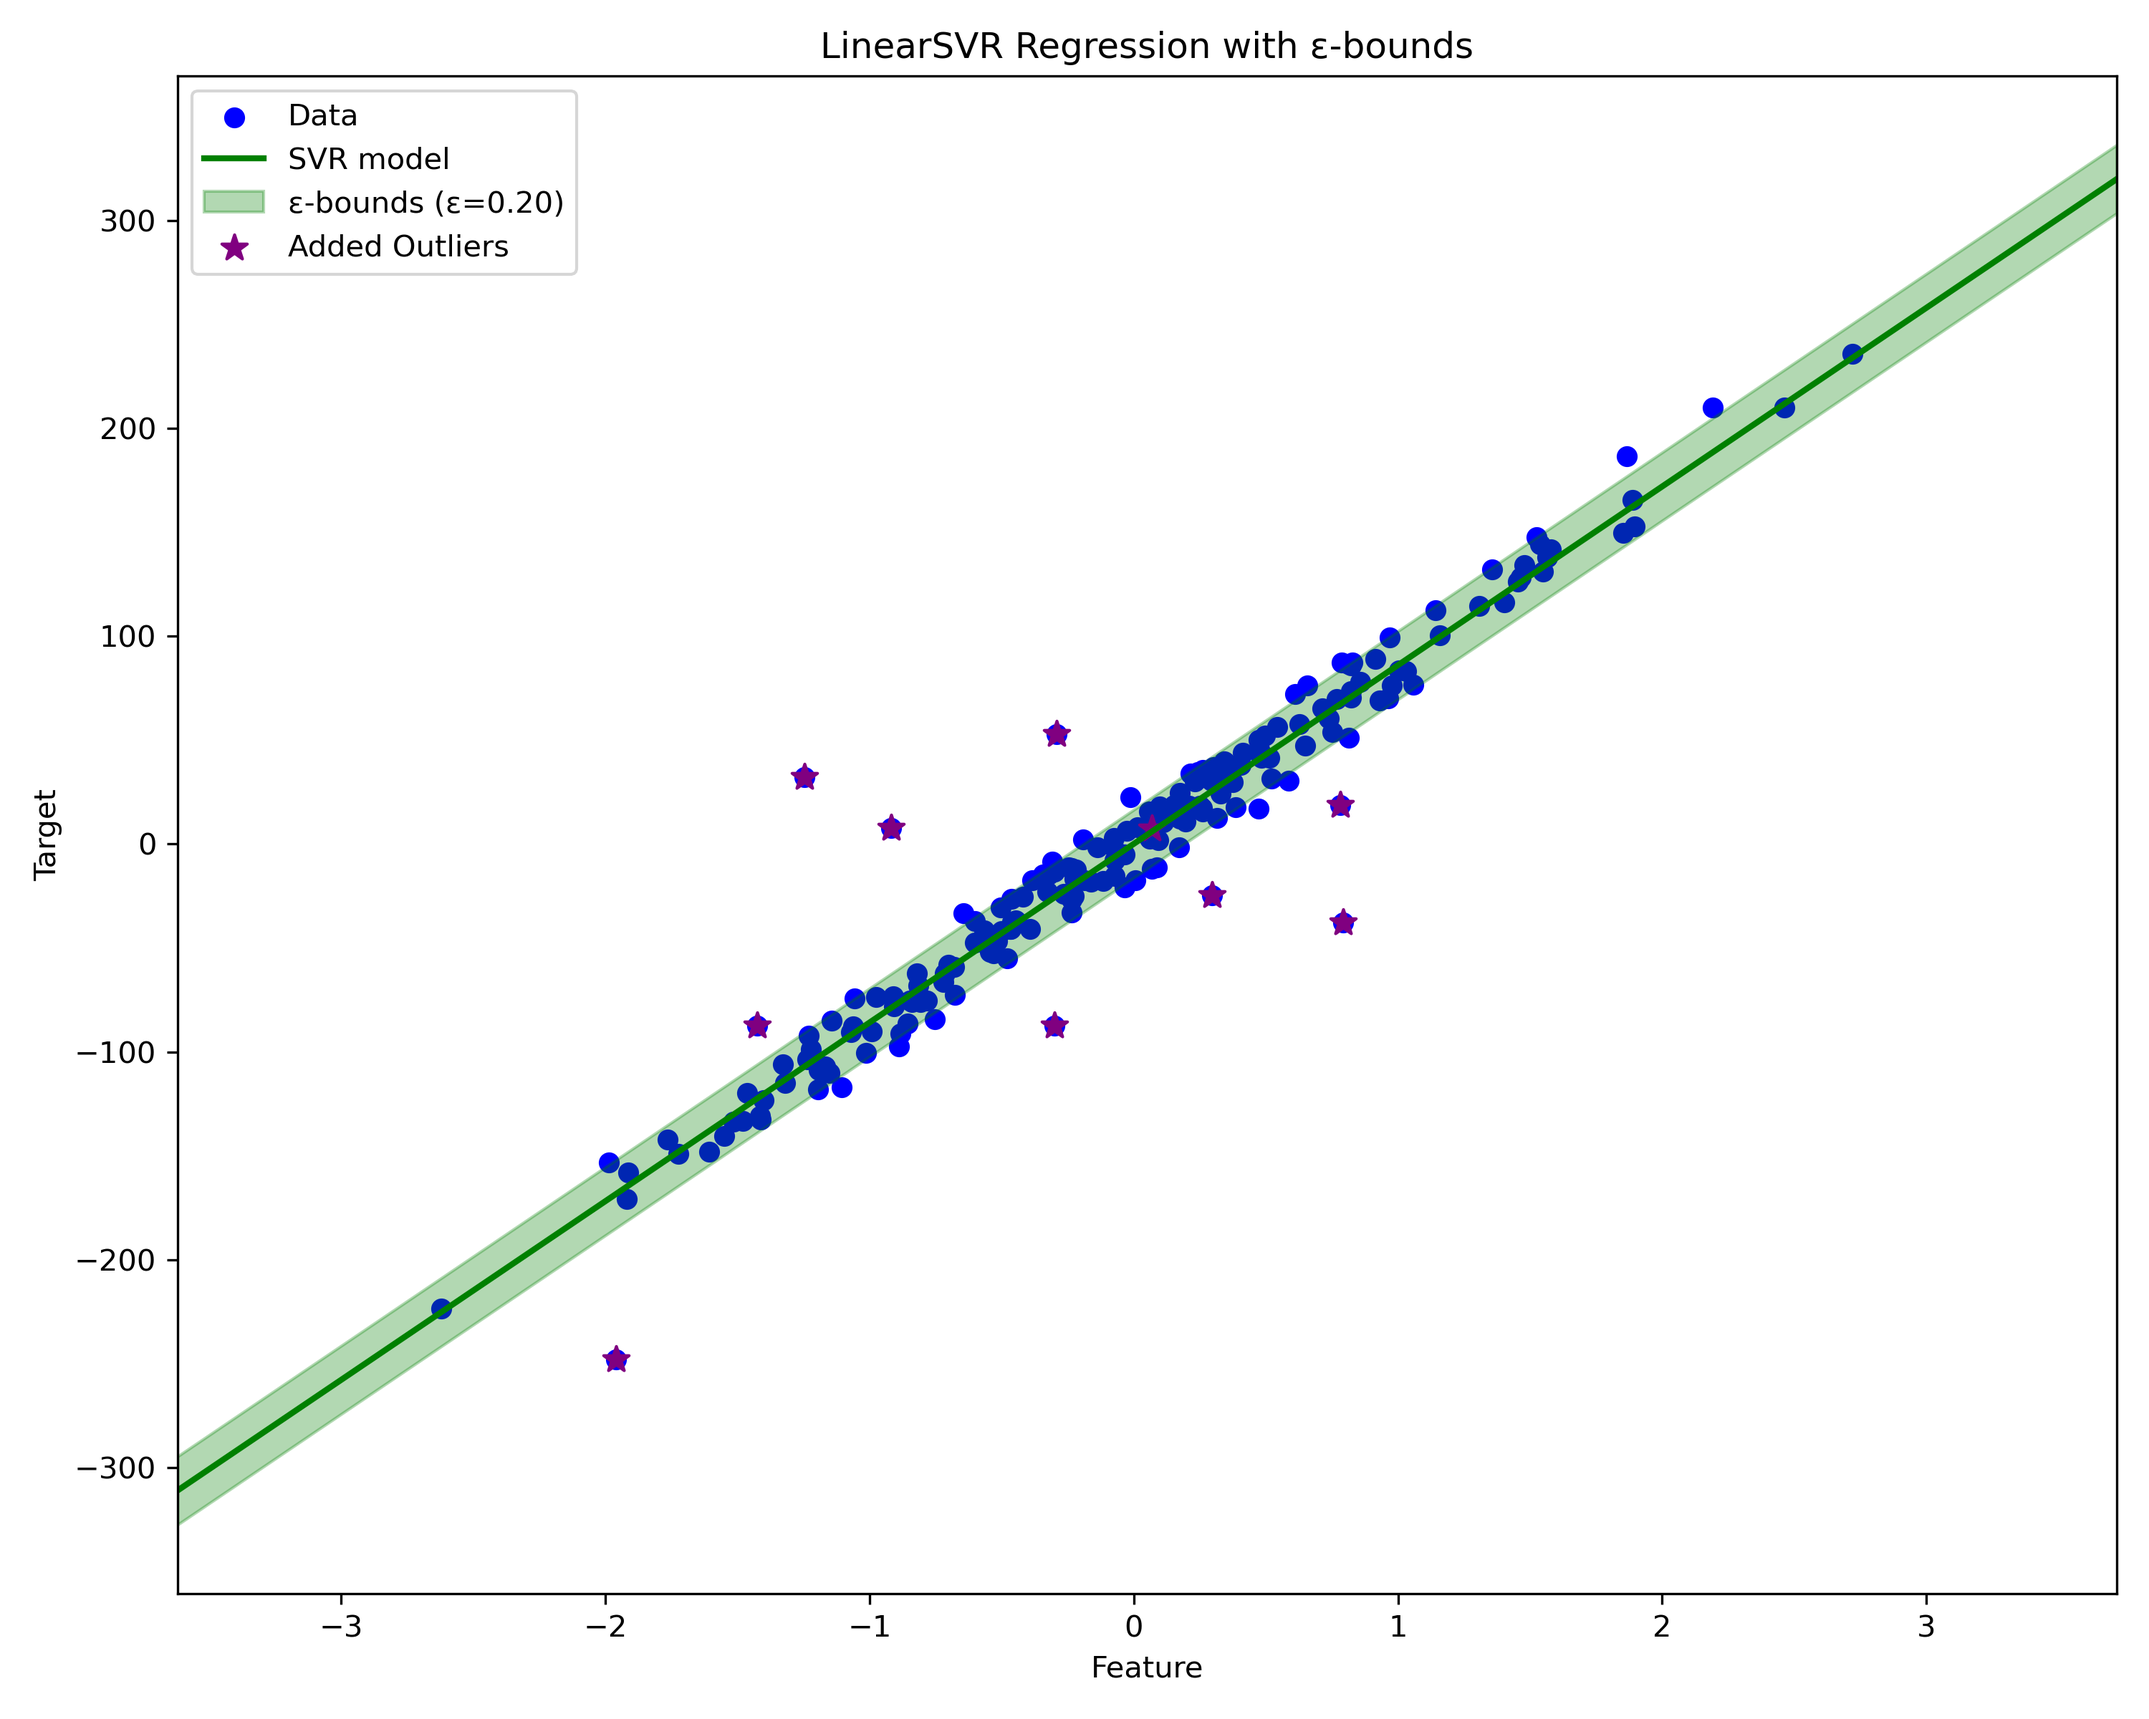
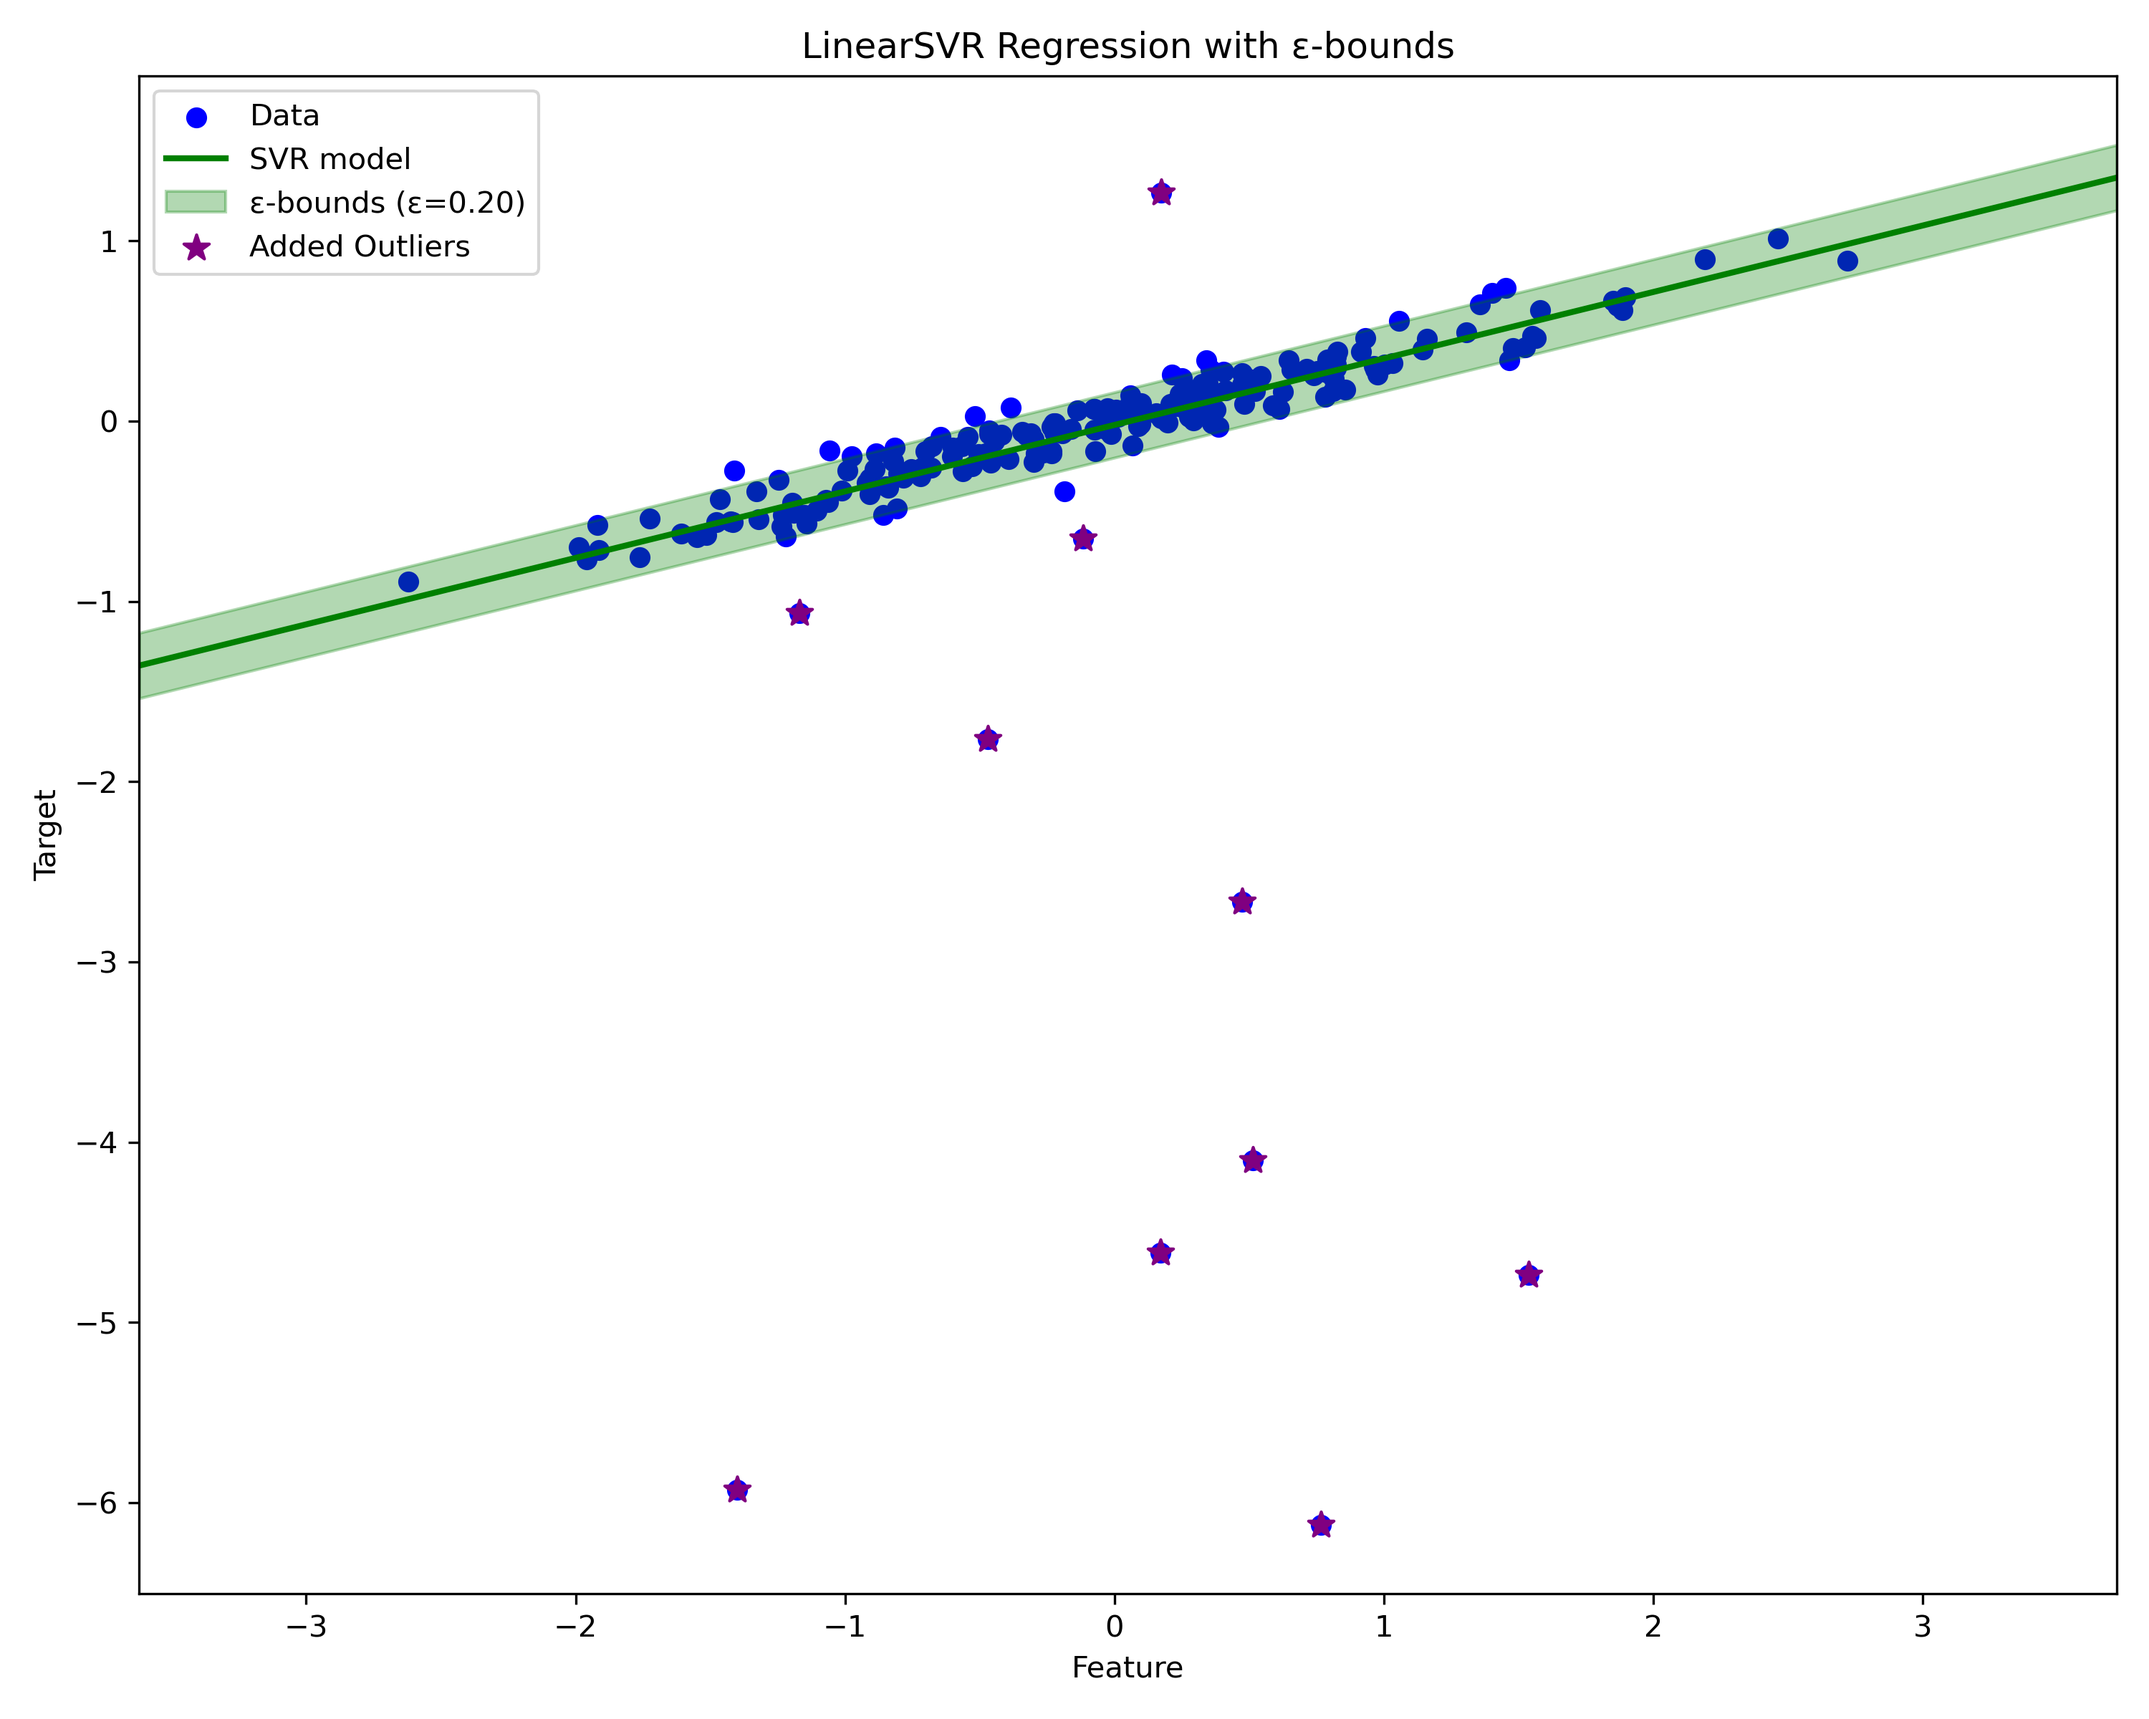
cleanup

diff --git a/examples/svm/oneClassSVM.py b/examples/svm/oneClassSVM.py
@@ -1,14 +1,15 @@
-import sys
-import os
-sys.path.append(os.path.abspath(os.path.join(os.path.dirname(__file__), '..', '..')))
-
-from sega_learn.linear_models import make_sample_data
-from sklearn.svm import OneClassSVM
 import numpy as np
 from math import floor, ceil
 from scipy import linalg
 import matplotlib as mpl
 import matplotlib.pyplot as plt
+
+import sys
+import os
+sys.path.append(os.path.abspath(os.path.join(os.path.dirname(__file__), '..', '..')))
+
+from sega_learn.linear_models import make_sample_data
+from sega_learn.svm import OneClassSVM
 
 def plot_ellipse(mean, cov, color, ax, label):
     """Plot an ellipse representing the class conditional density."""
@@ -59,7 +60,6 @@ def fig_add_one_class_svm(X, y, ocsvm, ax):
     ax.legend()
     
 
-
 # ---------------------------------------------------------------------
 # OneClassSVM with Different Kernels
 # ---------------------------------------------------------------------
@@ -77,19 +77,19 @@ y_min, y_max = floor(np.min(X[:, 1])), ceil(np.max(X[:, 1]))
 fig, axes = plt.subplots(1, 3, figsize=(18, 6))
 
 # Fit and plot OneClassSVM with RBF kernel
-ocsvm_rbf = OneClassSVM(kernel='rbf', nu=0.1)
+ocsvm_rbf = OneClassSVM(kernel='rbf', gamma='scale', learning_rate=1e-4)
 fig_add_one_class_svm(X, y, ocsvm_rbf, axes[0])
 axes[0].set_title(f'RBF Kernel')
 
 # Fit and plot OneClassSVM with Polynomial kernel
-ocsvm_poly = OneClassSVM(kernel='poly', degree=3, nu=0.1)
+ocsvm_poly = OneClassSVM(kernel='poly', degree=7, gamma='scale')
 poly_acc = fig_add_one_class_svm(X, y, ocsvm_poly, axes[1])
 axes[1].set_title(f'Polynomial Kernel')
 
-# Fit and plot OneClassSVM with Linear kernel
-ocsvm_linear = OneClassSVM(kernel='linear', nu=0.1)
+# Fit and plot OneClassSVM with Sigmoid kernel
+ocsvm_linear = OneClassSVM(kernel='sigmoid')
 linear_acc = fig_add_one_class_svm(X, y, ocsvm_linear, axes[2])
-axes[2].set_title(f'Linear Kernel')
+axes[2].set_title(f'Sigmoid Kernel')
 
 # Add overall title
 plt.suptitle('OneClassSVM Decision Boundary Comparison per Kernel', fontsize=16)

diff --git a/examples/svm/linearSVC_binary.py b/examples/svm/linearSVC_binary.py
@@ -1,6 +1,5 @@
 import numpy as np
 import matplotlib.pyplot as plt
-from sklearn.datasets import make_classification
 from sklearn.preprocessing import StandardScaler
 
 import sys
@@ -8,13 +7,19 @@ import os
 sys.path.append(os.path.abspath(os.path.join(os.path.dirname(__file__), '..', '..')))
 
 from sega_learn.svm import *
+from sega_learn.utils import make_classification
 
 # Set random seed for reproducibility
 np.random.seed(42)
 
-# Generate a binary classification dataset
-X, y = make_classification(n_samples=1000, n_features=2, n_redundant=0, n_informative=2,
+try:
+    from sklearn.datasets import make_classification
+    X, y = make_classification(n_samples=1000, n_features=2, n_redundant=0, n_informative=2,
                          random_state=42, n_clusters_per_class=1)
+except:
+    from sega_learn.utils import make_classification
+    X, y = make_classification(n_samples=1000, n_features=2, n_redundant=0, n_informative=2,
+                            random_state=42, n_clusters_per_class=10, class_sep=1.5)
 
 # Convert labels to -1 and 1
 y = np.where(y == 0, -1, 1)

diff --git a/examples/svm/linearSVR.py b/examples/svm/linearSVR.py
@@ -1,6 +1,5 @@
 import numpy as np
 import matplotlib.pyplot as plt
-from sklearn.datasets import make_regression
 from sklearn.preprocessing import StandardScaler
 
 import sys
@@ -8,16 +7,17 @@ import os
 sys.path.append(os.path.abspath(os.path.join(os.path.dirname(__file__), '..', '..')))
 
 from sega_learn.svm import *
+from sega_learn.utils import make_regression
 
 # Set random seed for reproducibility
 np.random.seed(42)
 
 # Generate a regression dataset
-X, y = make_regression(n_samples=200, n_features=1, n_informative=1, noise=10, random_state=42)
+X, y = make_regression(n_samples=200, n_features=1, n_informative=1, noise=.1, random_state=42)
 
-# Add some outliers
+# # Add some outliers
 outlier_indices = np.random.choice(len(X), size=10, replace=False)
-y[outlier_indices] += np.random.normal(0, 100, size=10)
+y[outlier_indices] += np.random.normal(-3, 3, size=10)
 
 # Scale features
 scaler_X = StandardScaler()

diff --git a/examples/svm/generalizedSVR.py b/examples/svm/generalizedSVR.py
@@ -1,3 +1,7 @@
+import numpy as np
+import matplotlib.pyplot as plt
+from matplotlib.gridspec import GridSpec
+
 import sys
 import os
 sys.path.append(os.path.abspath(os.path.join(os.path.dirname(__file__), '..', '..')))
@@ -6,10 +10,8 @@ from sega_learn.svm import *
 from sega_learn.utils import Metrics
 r2_score = Metrics.r_squared
 
-import numpy as np
-import matplotlib.pyplot as plt
-from matplotlib.gridspec import GridSpec
-np.random.seed(42)  # Random seed for reproducibility
+# Random seed for reproducibility
+np.random.seed(42)
 
 # Generate data
 pnts = 300
@@ -88,7 +90,3 @@ ax_combined.grid(True, alpha=0.3)
 plt.tight_layout()
 # plt.show()
 plt.savefig('examples/svm/plots/generalizedSVR_kernels.png', dpi=300)
-
-# Print R² scores for comparison
-# for kernel, score in zip(kernels, r2_scores):
-#     print(f"{kernel.upper()} Kernel R² Score: {score:.4f}")

diff --git a/examples/svm/generalizedSVC_binary.py b/examples/svm/generalizedSVC_binary.py
@@ -1,6 +1,5 @@
 import numpy as np
 import matplotlib.pyplot as plt
-from sklearn.datasets import make_classification
 from sklearn.preprocessing import StandardScaler
 
 import sys
@@ -8,13 +7,14 @@ import os
 sys.path.append(os.path.abspath(os.path.join(os.path.dirname(__file__), '..', '..')))
 
 from sega_learn.svm import *
+from sega_learn.utils import make_classification
 
 # Set random seed for reproducibility
 np.random.seed(42)
 
 # Generate a binary classification dataset
 X, y = make_classification(n_samples=300, n_features=2, n_redundant=0, n_informative=2,
-                         random_state=42, n_clusters_per_class=1)
+                         random_state=42, n_clusters_per_class=1, class_sep=1.5)
 
 # Convert labels to -1 and 1
 y = np.where(y == 0, -1, 1)

diff --git a/examples/svm/generalizedSVC_multi.py b/examples/svm/generalizedSVC_multi.py
@@ -1,13 +1,16 @@
+import numpy as np
+import matplotlib.pyplot as plt
+from matplotlib.colors import ListedColormap
+
 import sys
 import os
 sys.path.append(os.path.abspath(os.path.join(os.path.dirname(__file__), '..', '..')))
 
 from sega_learn.utils.makeData import make_blobs
 from sega_learn.svm import *
-import numpy as np
-import matplotlib.pyplot as plt
-from matplotlib.colors import ListedColormap
-np.random.seed(42)  # Random seed for reproducibility
+
+# Random seed for reproducibility
+np.random.seed(42)
 
 # Generate classification data
 X, y, _ = make_blobs(n_samples=1000, n_features=2, centers=3, random_state=42, cluster_std=3.0, center_box=(-15.0, 15.0))

diff --git a/examples/svm/linearSVC_multi.py b/examples/svm/linearSVC_multi.py
@@ -11,7 +11,6 @@ sys.path.append(os.path.abspath(os.path.join(os.path.dirname(__file__), '..', '.
 from sega_learn.svm import *
 from sega_learn.utils.makeData import make_blobs
 
-
 # Set random seed for reproducibility
 np.random.seed(42)
 
